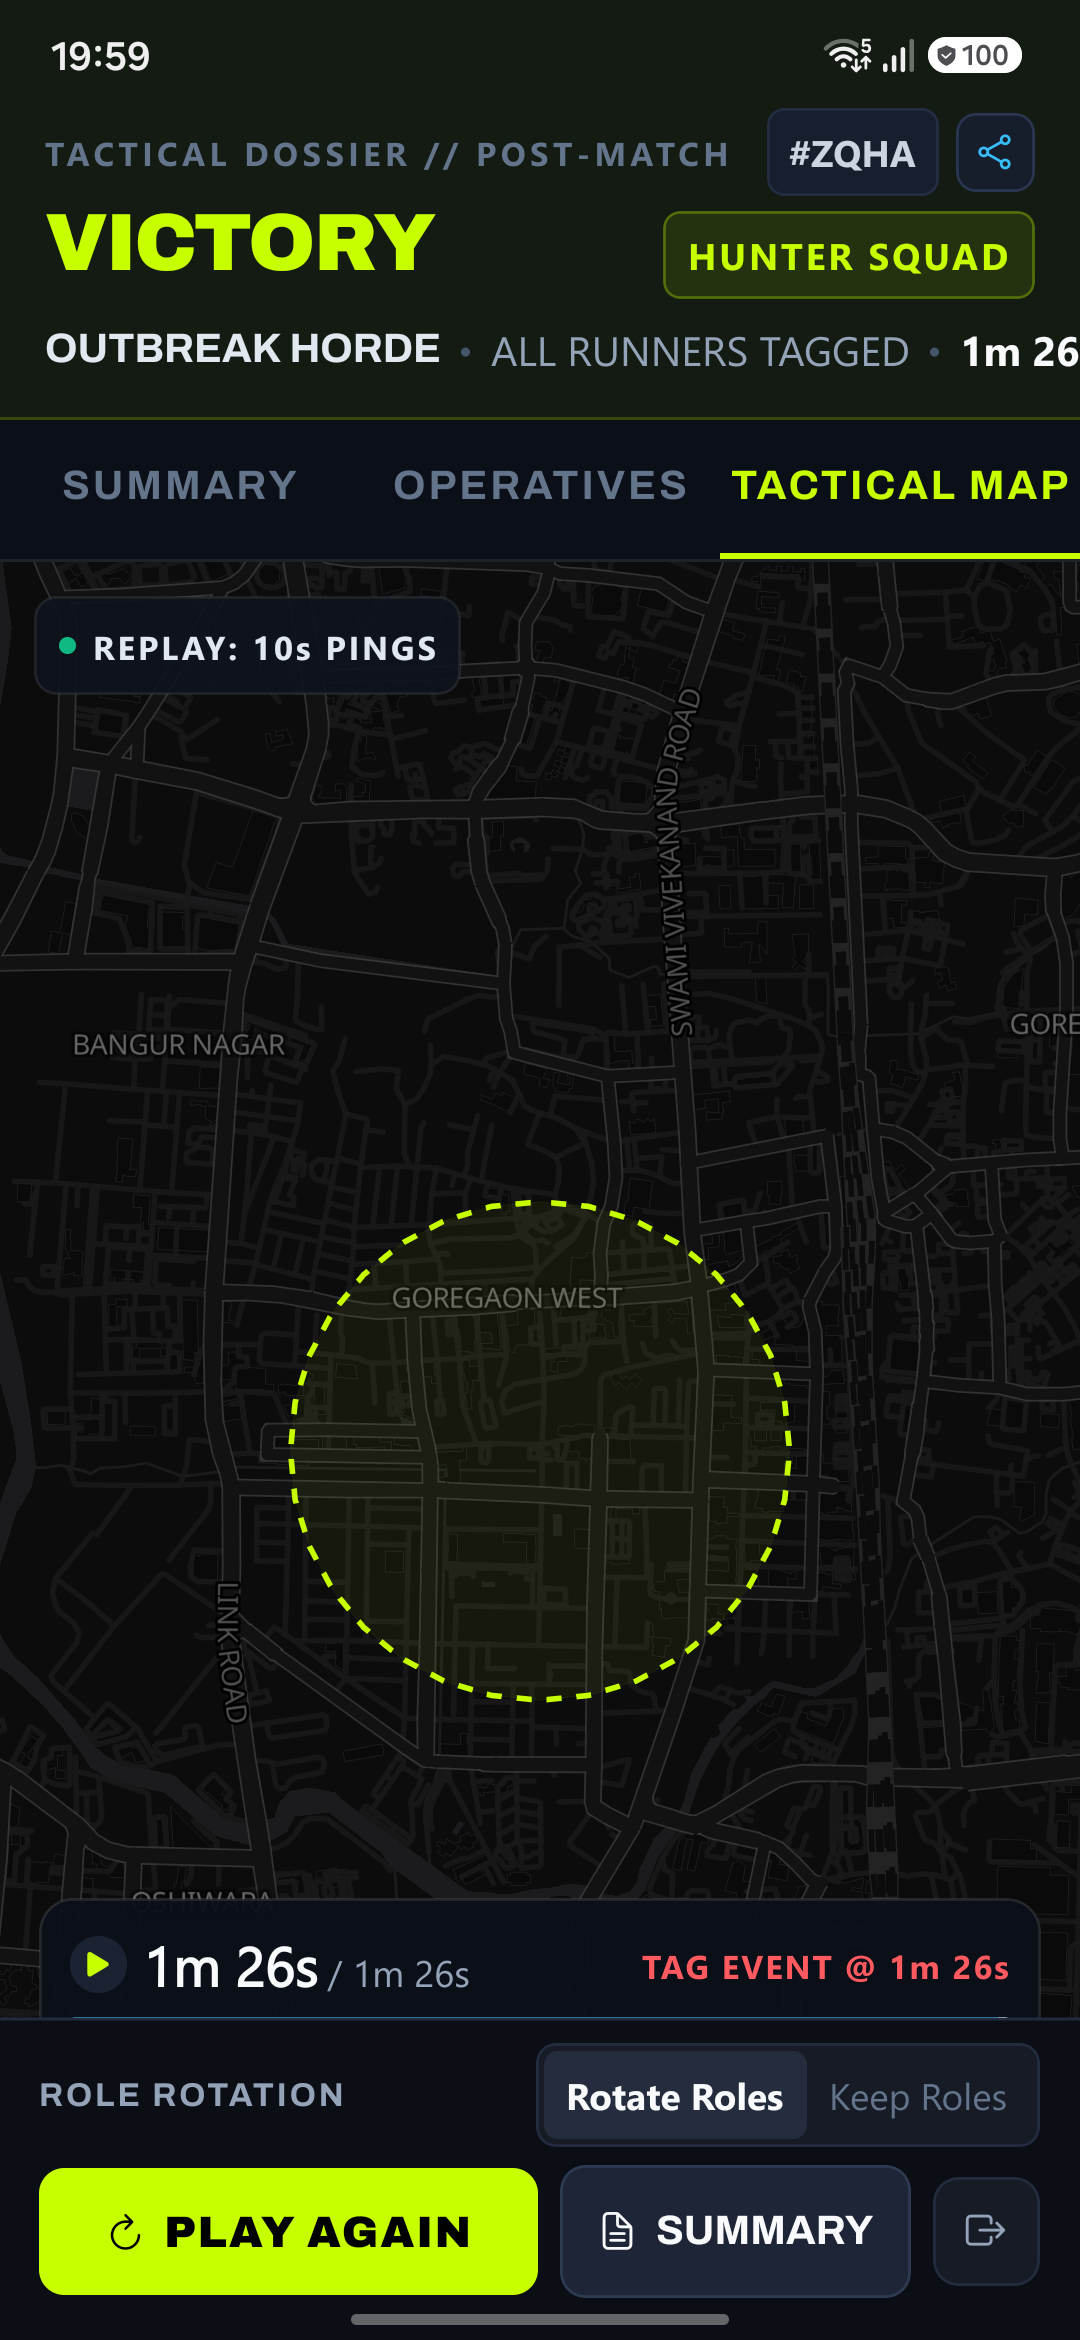
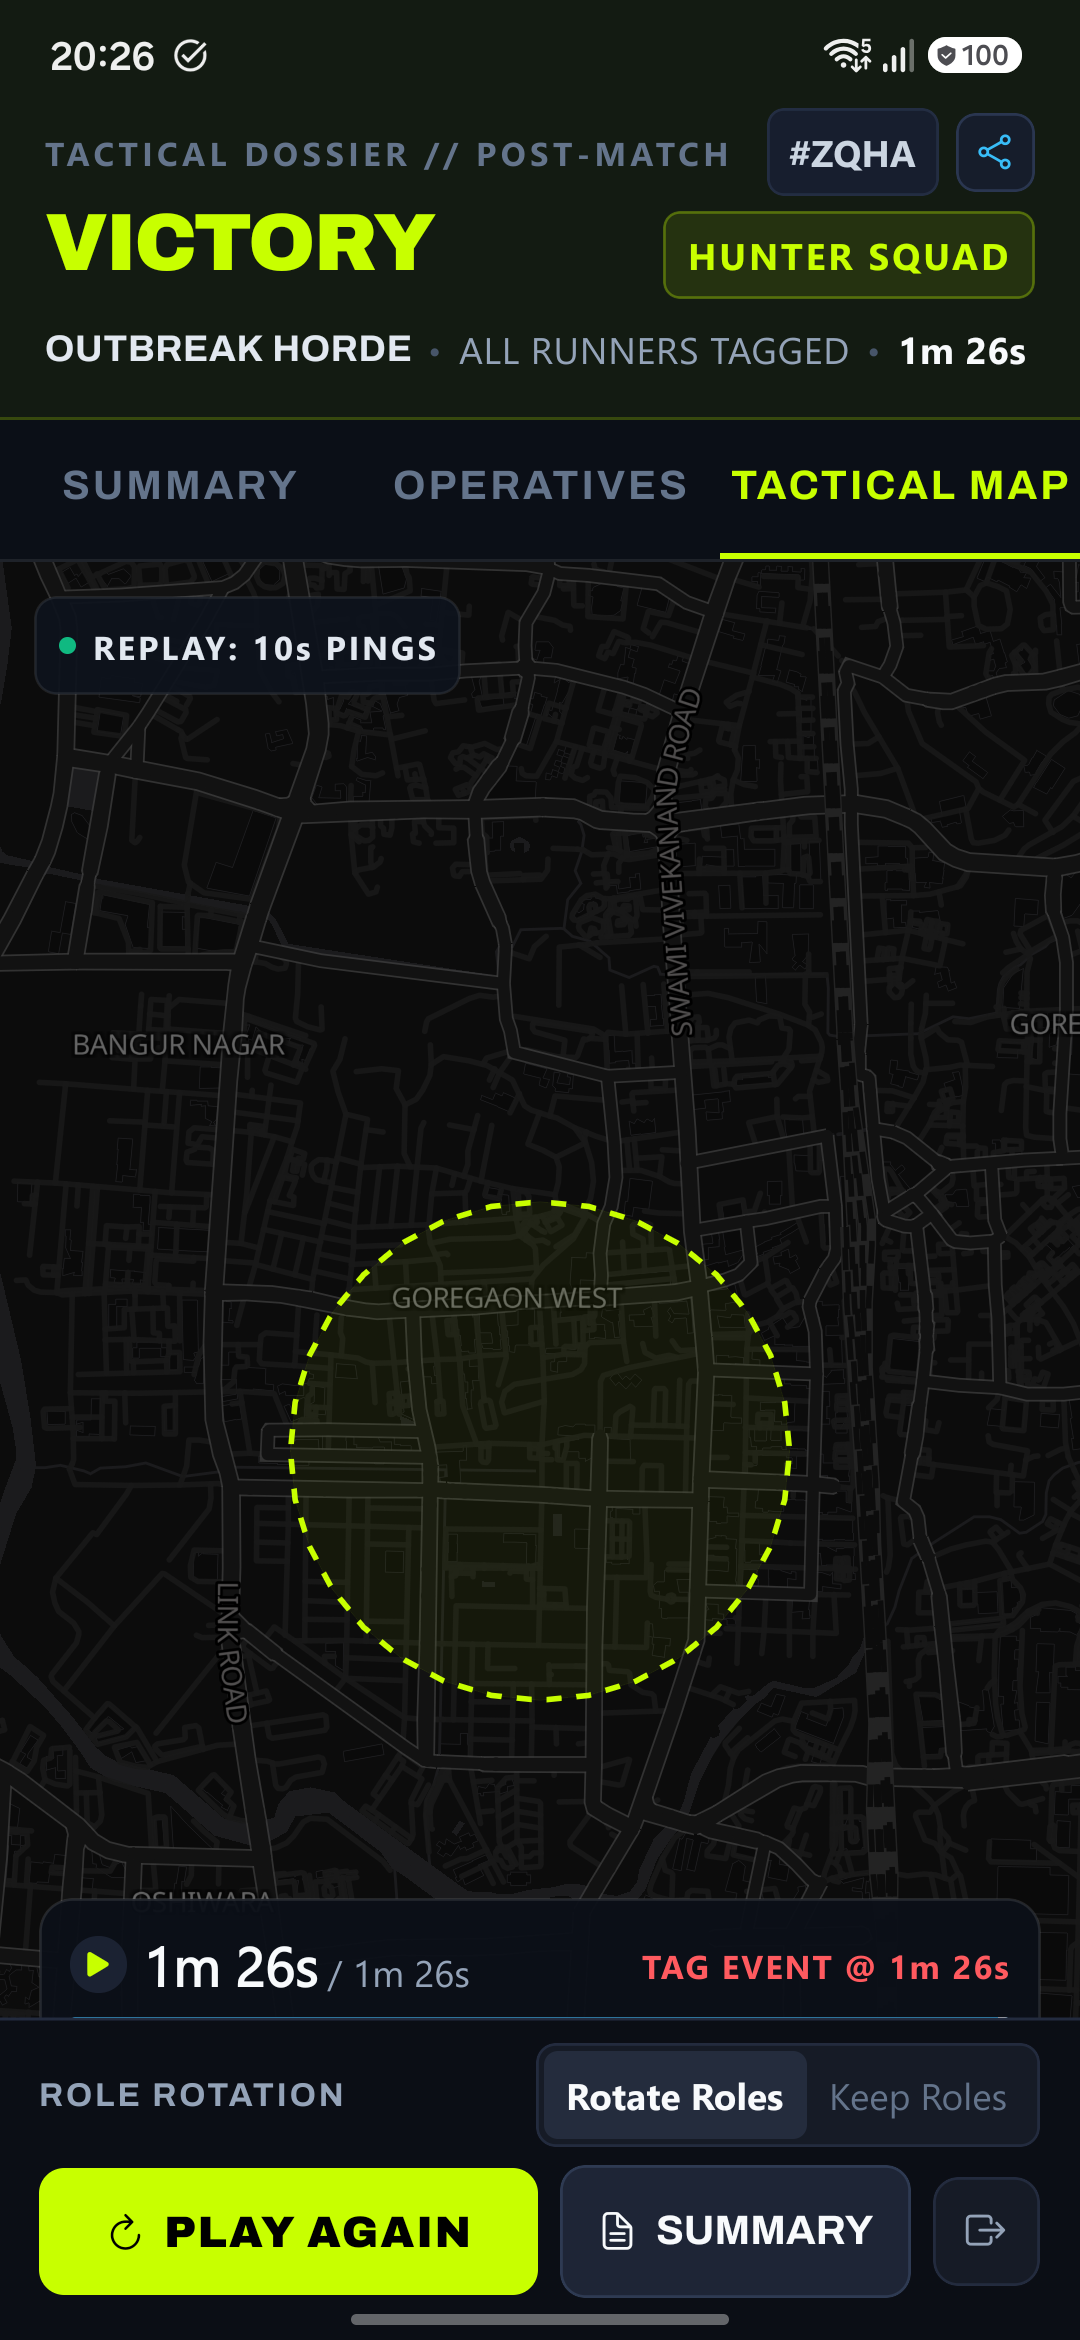
fix(result): resolve subtitle clipping, stat baseline alignment, unit consistency, and modal header overlap

Changed region(s): [[0.4278, 0.1248, 1.0, 0.156], [0.0611, 0.1248, 0.3972, 0.156], [0.0611, 0.0, 0.1833, 0.0312]]

diff --git a/app/result/[id].tsx b/app/result/[id].tsx
@@ -213,6 +213,17 @@ function formatDuration(totalSeconds: number) {
   return `${Math.floor(minutes / 60)}h ${minutes % 60}m`;
 }
 
+function formatClockDuration(totalSeconds: number): string {
+  const seconds = Math.max(0, Math.round(totalSeconds));
+  const minutes = Math.floor(seconds / 60);
+  const remSec = seconds % 60;
+  return `${String(minutes).padStart(2, '0')}:${String(remSec).padStart(2, '0')}`;
+}
+
+function formatKilometers(meters: number): string {
+  return `${(Math.max(0, meters) / 1000).toFixed(1)} km`;
+}
+
 function teamLabel(team: Team) {
   return team === 'runner' ? 'Runner' : team === 'hunter' ? 'Hunter' : 'No team';
 }
@@ -711,7 +722,7 @@ export default function ResultScreen() {
 
   const formattedDistanceDisplay =
     myDistanceMeters > 0
-      ? formatDistance(myDistanceMeters, unitSystem)
+      ? formatKilometers(myDistanceMeters)
       : '0.4 km';
 
   const endReasonLabel =
@@ -911,12 +922,16 @@ export default function ResultScreen() {
               {myPlayer?.team === 'hunter' ? (
                 <>
                   <View style={styles.statStripCol}>
-                    <Text style={styles.statStripLabel}>TAGS</Text>
+                    <View style={styles.statStripLabelBox}>
+                      <Text style={styles.statStripLabel}>TAGS</Text>
+                    </View>
                     <Text style={styles.statStripValue}>{taggedCount}</Text>
                   </View>
                   <View style={styles.statStripDivider} />
                   <View style={styles.statStripCol}>
-                    <Text style={styles.statStripLabel}>CLOSEST PING</Text>
+                    <View style={styles.statStripLabelBox}>
+                      <Text style={styles.statStripLabel}>CLOSEST PING</Text>
+                    </View>
                     <Text style={styles.statStripValue}>
                       {myPlayerStat?.closest_call_m !== null && myPlayerStat?.closest_call_m !== undefined
                         ? formatDistance(myPlayerStat.closest_call_m, unitSystem)
@@ -925,24 +940,32 @@ export default function ResultScreen() {
                   </View>
                   <View style={styles.statStripDivider} />
                   <View style={styles.statStripCol}>
-                    <Text style={styles.statStripLabel}>HUNT TIME</Text>
+                    <View style={styles.statStripLabelBox}>
+                      <Text style={styles.statStripLabel}>HUNT TIME</Text>
+                    </View>
                     <Text style={styles.statStripValue}>{formatDuration(roundSeconds ?? 0)}</Text>
                   </View>
                 </>
               ) : (
                 <>
                   <View style={styles.statStripCol}>
-                    <Text style={styles.statStripLabel}>SURVIVED</Text>
+                    <View style={styles.statStripLabelBox}>
+                      <Text style={styles.statStripLabel}>SURVIVED</Text>
+                    </View>
                     <Text style={styles.statStripValue}>{formatDuration(roundSeconds ?? 0)}</Text>
                   </View>
                   <View style={styles.statStripDivider} />
                   <View style={styles.statStripCol}>
-                    <Text style={styles.statStripLabel}>DISTANCE</Text>
+                    <View style={styles.statStripLabelBox}>
+                      <Text style={styles.statStripLabel}>DISTANCE</Text>
+                    </View>
                     <Text style={styles.statStripValue}>{formattedDistanceDisplay}</Text>
                   </View>
                   <View style={styles.statStripDivider} />
                   <View style={styles.statStripCol}>
-                    <Text style={styles.statStripLabel}>UNSEEN STREAK</Text>
+                    <View style={styles.statStripLabelBox}>
+                      <Text style={styles.statStripLabel}>UNSEEN STREAK</Text>
+                    </View>
                     <Text style={styles.statStripValue}>
                       {myPlayerStat?.longest_unseen_s ? `${myPlayerStat.longest_unseen_s}s` : '42s'}
                     </Text>
@@ -1024,7 +1047,7 @@ export default function ResultScreen() {
                   </View>
                   <View style={styles.rosterColHeaderRow}>
                     <Text style={[styles.rosterColHeader, { width: 32 }]}>TAGS</Text>
-                    <Text style={[styles.rosterColHeader, { width: 44 }]}>DIST</Text>
+                    <Text style={[styles.rosterColHeader, { width: 48 }]}>DIST</Text>
                     <Text style={[styles.rosterColHeader, { width: 40 }]}>XP</Text>
                     <View style={{ width: 18 }} />
                   </View>
@@ -1034,8 +1057,8 @@ export default function ResultScreen() {
                   const isCurrent = p.id === state.my_player_id;
                   const isExpanded = expandedPlayerId === p.id;
                   const pStat = gameStats?.players.find((item) => item.player_id === p.id);
-                  const pDistM = getPlayerDistanceMeters(p.id);
-                  const distDisplay = pDistM > 0 ? formatDistance(pDistM, unitSystem) : '0.2km';
+                  const pDistM = getPlayerDistanceMeters(p.id) || (isCurrent ? myDistanceMeters : 200);
+                  const distDisplay = formatKilometers(pDistM > 0 ? pDistM : 200);
                   const pXp = roundScore && isCurrent ? Math.round(roundScore.echo) : 70;
 
                   return (
@@ -1073,13 +1096,13 @@ export default function ResultScreen() {
                         </View>
 
                         <View style={styles.operativeMetricsRow}>
-                          <Text style={[styles.operativeMetricVal, { width: 32 }]}>
+                          <Text style={[styles.operativeMetricVal, { width: 32 }]} numberOfLines={1}>
                             {taggedCount}
                           </Text>
-                          <Text style={[styles.operativeMetricValMuted, { width: 44 }]}>
+                          <Text style={[styles.operativeMetricValMuted, { width: 48 }]} numberOfLines={1}>
                             {distDisplay}
                           </Text>
-                          <Text style={[styles.operativeMetricValXp, { width: 40 }]}>
+                          <Text style={[styles.operativeMetricValXp, { width: 40 }]} numberOfLines={1}>
                             +{pXp}
                           </Text>
                           <Ionicons
@@ -1162,7 +1185,7 @@ export default function ResultScreen() {
                   </View>
                   <View style={styles.rosterColHeaderRow}>
                     <Text style={[styles.rosterColHeader, { width: 44 }]}>TIME</Text>
-                    <Text style={[styles.rosterColHeader, { width: 44 }]}>DIST</Text>
+                    <Text style={[styles.rosterColHeader, { width: 48 }]}>DIST</Text>
                     <Text style={[styles.rosterColHeader, { width: 36 }]}>XP</Text>
                     <View style={{ width: 18 }} />
                   </View>
@@ -1173,7 +1196,7 @@ export default function ResultScreen() {
                   const isExpanded = expandedPlayerId === p.id;
                   const pStat = gameStats?.players.find((item) => item.player_id === p.id);
                   const pDistM = getPlayerDistanceMeters(p.id) || (isCurrent ? myDistanceMeters : 400);
-                  const distDisplay = pDistM > 0 ? formatDistance(pDistM, unitSystem) : '0.4km';
+                  const distDisplay = formatKilometers(pDistM > 0 ? pDistM : 400);
                   const pXp = roundScore && isCurrent ? Math.round(roundScore.echo) : 51;
 
                   return (
@@ -1212,13 +1235,13 @@ export default function ResultScreen() {
                         </View>
 
                         <View style={styles.operativeMetricsRow}>
-                          <Text style={[styles.operativeMetricVal, { width: 44 }]}>
-                            {formatDuration(roundSeconds ?? 0)}
+                          <Text style={[styles.operativeMetricVal, { width: 44 }]} numberOfLines={1}>
+                            {formatClockDuration(roundSeconds ?? 0)}
                           </Text>
-                          <Text style={[styles.operativeMetricValMuted, { width: 44 }]}>
+                          <Text style={[styles.operativeMetricValMuted, { width: 48 }]} numberOfLines={1}>
                             {distDisplay}
                           </Text>
-                          <Text style={[styles.operativeMetricValXp, { width: 36, color: '#94A3B8' }]}>
+                          <Text style={[styles.operativeMetricValXp, { width: 36, color: '#94A3B8' }]} numberOfLines={1}>
                             +{pXp}
                           </Text>
                           <Ionicons
@@ -1550,9 +1573,11 @@ export default function ResultScreen() {
         <Pressable style={styles.modalBackdrop} onPress={() => setShowFormulaModal(false)}>
           <Pressable style={styles.formulaModalCard} onPress={(e) => e.stopPropagation()}>
             <View style={styles.formulaModalHeader}>
-              <View style={{ flexDirection: 'row', alignItems: 'center', gap: 6 }}>
+              <View style={styles.formulaModalTitleBox}>
                 <View style={[styles.progressionDot, { backgroundColor: outcomeAccent }]} />
-                <Text style={styles.formulaModalTitle}>SEASON ECHO MATH BREAKDOWN</Text>
+                <Text style={styles.formulaModalTitle} numberOfLines={1}>
+                  SEASON ECHO MATH BREAKDOWN
+                </Text>
               </View>
               <Pressable
                 accessibilityRole="button"
@@ -1760,26 +1785,30 @@ const styles = StyleSheet.create({
   bannerSubtitleRow: {
     flexDirection: 'row',
     alignItems: 'center',
+    flexWrap: 'wrap',
     gap: 6,
     marginTop: 2,
   },
   bannerSubtitleBold: {
     fontFamily: 'Archivo-Bold',
-    fontSize: 11,
+    fontSize: 10,
+    letterSpacing: 0.2,
     color: '#E2E8F0',
   },
   bannerSubtitleDot: {
     color: '#475569',
-    fontSize: 10,
+    fontSize: 9,
   },
   bannerSubtitleMuted: {
     fontFamily: 'SegoeUI-Regular',
-    fontSize: 11,
+    fontSize: 10,
+    letterSpacing: 0.2,
     color: '#94A3B8',
   },
   bannerSubtitleDuration: {
     fontFamily: 'SegoeUI-Bold',
-    fontSize: 11,
+    fontSize: 10,
+    letterSpacing: 0.2,
     color: '#F8FAFC',
   },
 
@@ -1916,18 +1945,25 @@ const styles = StyleSheet.create({
   statStripCol: {
     flex: 1,
     alignItems: 'center',
+    justifyContent: 'space-between',
   },
   statStripDivider: {
     width: 1,
-    height: 24,
+    height: 32,
     backgroundColor: 'rgba(255, 255, 255, 0.08)',
+  },
+  statStripLabelBox: {
+    minHeight: 24,
+    justifyContent: 'center',
+    alignItems: 'center',
+    marginBottom: 4,
   },
   statStripLabel: {
     fontFamily: 'SegoeUI-Bold',
     fontSize: 9,
     letterSpacing: 0.8,
     color: '#64748B',
-    marginBottom: 2,
+    textAlign: 'center',
     textTransform: 'uppercase',
   },
   statStripValue: {
@@ -2457,11 +2493,18 @@ const styles = StyleSheet.create({
     borderBottomWidth: 1,
     borderBottomColor: 'rgba(255, 255, 255, 0.08)',
     marginBottom: 10,
+    gap: 8,
+  },
+  formulaModalTitleBox: {
+    flex: 1,
+    flexDirection: 'row',
+    alignItems: 'center',
+    gap: 6,
   },
   formulaModalTitle: {
     fontFamily: 'Archivo-Bold',
-    fontSize: 11,
-    letterSpacing: 0.8,
+    fontSize: 9.5,
+    letterSpacing: 0.2,
     color: '#F8FAFC',
   },
   formulaCloseBtn: {
@@ -2471,6 +2514,7 @@ const styles = StyleSheet.create({
     backgroundColor: '#1B2334',
     alignItems: 'center',
     justifyContent: 'center',
+    flexShrink: 0,
   },
   formulaItemList: {
     gap: 6,

diff --git a/scripts/verify_four_fixes.py b/scripts/verify_four_fixes.py
@@ -1,0 +1,59 @@
+import subprocess
+import time
+import sys
+
+def run_adb(cmd):
+    res = subprocess.run(f"adb {cmd}", shell=True, capture_output=True, text=True)
+    if res.returncode != 0 and res.stderr:
+        print(f"ADB Error ({cmd}): {res.stderr.strip()}", file=sys.stderr)
+    return res
+
+dev1 = "RZCWA2BC80T"
+dev2 = "RZGL30WT2EJ"
+apk = "android/app/build/outputs/apk/release/app-release.apk"
+
+print("Installing APK on dev1 and dev2...")
+subprocess.run(f"adb -s {dev1} install -r {apk}", shell=True, check=True)
+subprocess.run(f"adb -s {dev2} install -r {apk}", shell=True, check=True)
+
+print("Launching ResultScreen on both devices...")
+for d in [dev1, dev2]:
+    run_adb(f"-s {d} shell am force-stop com.ghostrun.app")
+time.sleep(0.5)
+
+for d in [dev1, dev2]:
+    run_adb(f"-s {d} shell am start -a android.intent.action.VIEW -d 'ghost-run://result/47c3b4f0-271f-4588-9d65-ba7236b5e4e0' com.ghostrun.app")
+
+print("Waiting for ResultScreen to load...")
+time.sleep(6)
+
+print("1. Capturing Tab 1 (SUMMARY)...")
+run_adb(f"-s {dev1} exec-out screencap -p > test-run-screenshots/93_valorant_summary_dev1.png")
+run_adb(f"-s {dev2} exec-out screencap -p > test-run-screenshots/93_valorant_summary_dev2.png")
+
+print("2. Opening Formula Modal on dev1 at (960, 770)...")
+run_adb(f"-s {dev1} shell input tap 960 770")
+time.sleep(1.2)
+run_adb(f"-s {dev1} exec-out screencap -p > test-run-screenshots/98_valorant_formula_modal_dev1.png")
+# Dismiss modal by tapping backdrop at (540, 400)
+run_adb(f"-s {dev1} shell input tap 540 400")
+time.sleep(0.8)
+
+print("3. Switching both to Tab 2 (OPERATIVES)...")
+run_adb(f"-s {dev1} shell input tap 540 480")
+run_adb(f"-s {dev2} shell input tap 540 480")
+time.sleep(1.2)
+run_adb(f"-s {dev1} exec-out screencap -p > test-run-screenshots/94_valorant_operatives_dev1.png")
+run_adb(f"-s {dev2} exec-out screencap -p > test-run-screenshots/94_valorant_operatives_dev2.png")
+
+print("4. Expanding Runner (TEST101) Drawer on dev2...")
+run_adb(f"-s {dev2} shell input tap 540 1095")
+time.sleep(1.2)
+run_adb(f"-s {dev2} exec-out screencap -p > test-run-screenshots/95_valorant_drawer_dev2.png")
+
+print("5. Switching dev2 to Tab 3 (TACTICAL MAP)...")
+run_adb(f"-s {dev2} shell input tap 900 480")
+time.sleep(3.0)
+run_adb(f"-s {dev2} exec-out screencap -p > test-run-screenshots/96_valorant_map_dev2.png")
+
+print("All screenshots successfully captured!")
